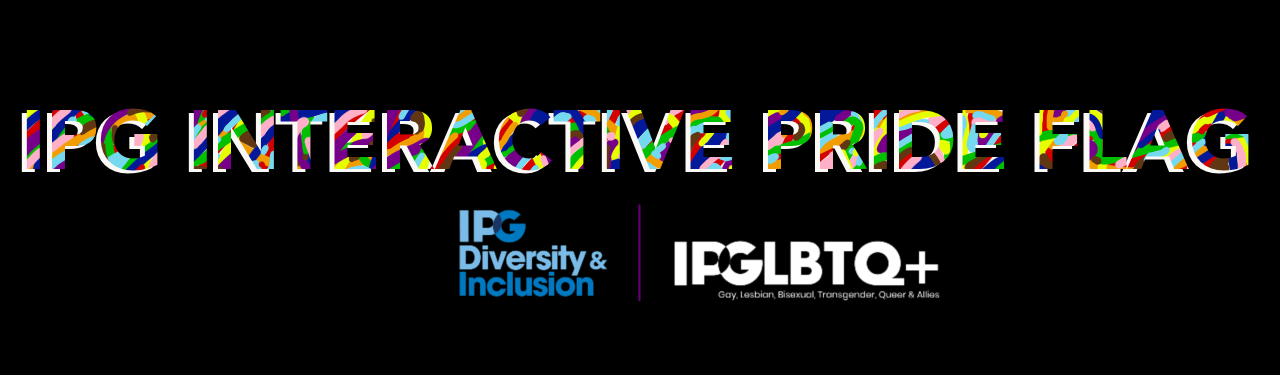
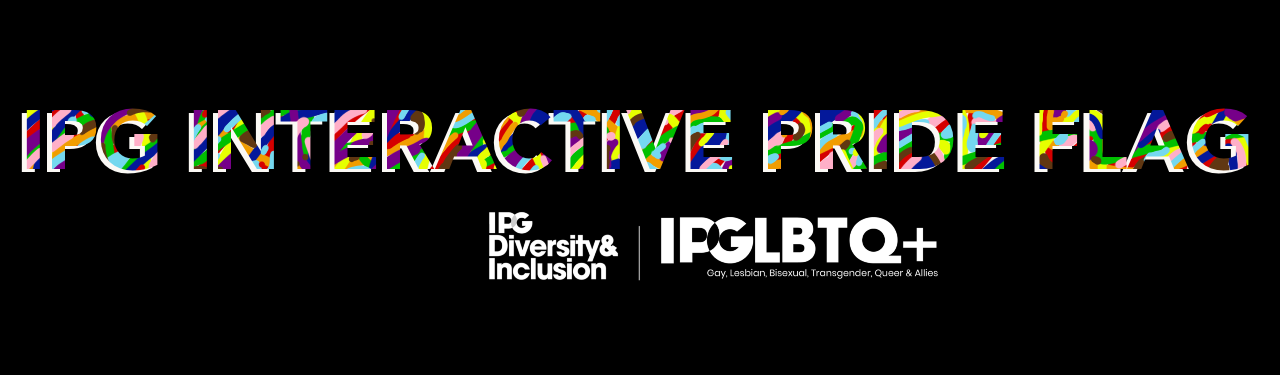
Changed Header, edited grammar, added copy links

Changed region(s): [[0.3438, 0.5573, 0.75, 0.8213]]

diff --git a/index.html b/index.html
@@ -809,7 +809,7 @@
                                 <h3>They/Them/She/Her</h3>
                                 <h5>Kinesso</h5>
                                 <h6>Global Chief Client Officer</h6>
-                                <p>What inspries me about the Porgress Pride Flag is that we understand it's not a moment in time, but that we evolve with the flag and what it stands for must keep up with the people it represents.</p>
+                                <p>What inspires me about the Progress Pride Flag is that we understand that it’s not fixed to a moment in time, but that we evolve over time and what the flag stands for must keep up with the people in which it represents.</p>
                             </div>
                         </div>
                         <div class="tile">
@@ -819,7 +819,7 @@
                                 <h3>She/Her</h3>
                                 <h5>Kinesso</h5>
                                 <h6>SVP, Global Client Solutions</h6>
-                                <p>Pride was started by a Black trans woman, but too often Black queer folx are marginalized by anti-Blackness in the border Gay community. The Progress Pride Flag re-centers our story, our contributions, our presence. </p>
+                                <p>Pride was started by a Black trans woman, but too often Black queer folks are marginalized by anti-Blackness in the broader LGBTQIA+ community. The Progress Pride Flag re-centers our story, our contributions, our presence. </p>
                             </div>
                         </div>
                         <div class="tile">
@@ -840,7 +840,7 @@
                     <h2>What does Pride Mean to You?</h2>
                     <p>The purpose of the Pride Flag has always been to make space and provide visibility to our beautiful and richly diverse community. This updated version, also called the The Progress Pride Flag, includes the traditional rainbow colors that have historically represented the LGBTQ+ community, with the addition of a black and brown stripe as well as the colors of the trans flag to be more inclusive of our intersectional and diverse communities, and emphasize the voices who most need to be heard. We’ve asked our LGBTQ+ team members and their allies to share what inspires them about the changes to the traditional Pride Flag, what makes them proud to be Out at IPG, and what excites them about the future of Pride. The responses you’ll find in this collage are a symbol of that dedication to make IPG a space where employees feel safe to be out, open, and authentically themselves at work.  </p>
                 <p>We want to thank all of those who participated in this project by promoting this Pride Flag Collage in your networks and channels. Please feel free to link and share this collage and show your support for IPGLBTQ+!  </p>
-                <p>Additionally, to learn more about the Progress Pride Flag, please join OBRIE on Jun 30 at 12:00 PM ET for an interactive Keynote delivered by Amber Hikes, the Chief Inclusion Officer of the ACLU and the person responsible for launching the progressive flag in 2017. </p>
+                <p>Additionally, to learn more about the Progress Pride Flag, please join <a href="https://cmgrp.zoom.us/webinar/register/WN_03M31EkPTK-QnaANEH1GFA">OBRIE on Jun 30 at 12:00 PM ET for an interactive Keynote </a> delivered by <a href="https://www.aclu.org/bio/amber-hikes">Amber Hikes, </a> the Chief Inclusion Officer of the ACLU and the person responsible for launching the progressive flag in 2017. </p>
             </div>
             </div>
             <div class="row row-cols-sm-1 row-cols-md-2">
